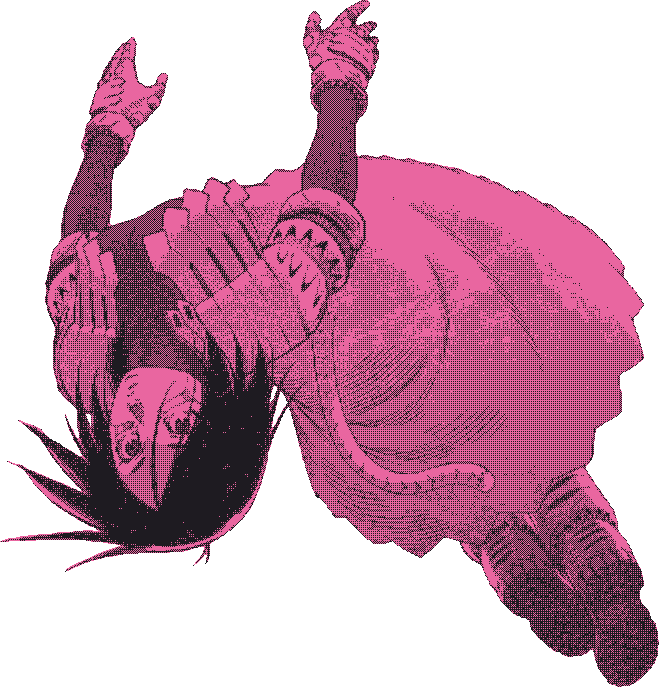
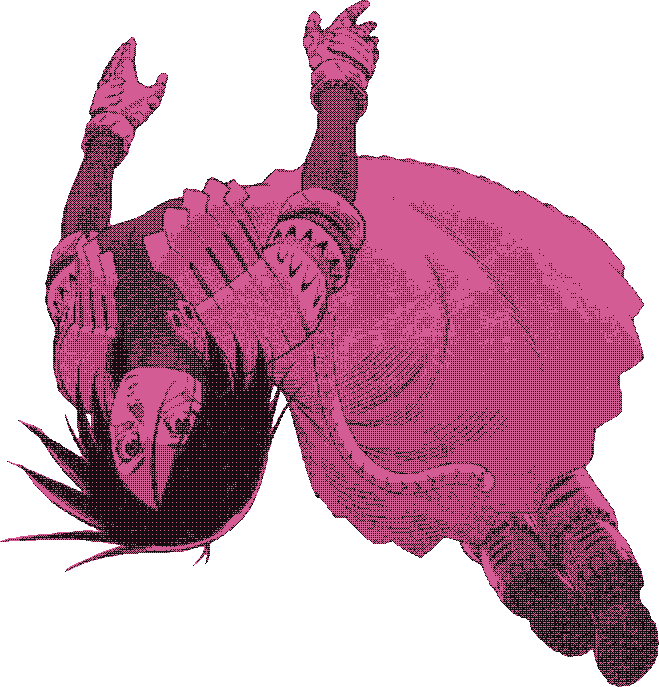
Improved dither consistency between main color images

diff --git a/assets/js/settings-panel.js b/assets/js/settings-panel.js
@@ -89,7 +89,6 @@ export function initSettingsPanel() {
     padding: 4px 8px;
     width: 100%;
     box-sizing: border-box;
-    border-radius: var(--b-radius);
   }
 
   #settings-box label.switch-placeholder .switch-label {
@@ -110,7 +109,7 @@ export function initSettingsPanel() {
     width: 36px;
     height: 22px;
     background: #888;
-    border-radius: calc(var(--b-radius)*50);
+    border-radius: var(--b-radius);
     border: 1px solid var(--clr-borda);
     position: relative;
     margin-left: auto;
@@ -125,7 +124,7 @@ export function initSettingsPanel() {
     height: 14px;
     aspect-ratio: 1/1;
     background: #fcf9ff;
-    border-radius: calc(var(--b-radius)*50);
+    border-radius: calc(var(--b-radius) - 3px);
     transition: transform 0.2s;
     transform: translateY(-50%) translateX(0);
     box-shadow: 1px 1px 0px rgba(0,0,0,0.4);

diff --git a/assets/css/variaveis.css b/assets/css/variaveis.css
@@ -99,7 +99,7 @@
 	--fonte-tituloheader: "Voxel", serif;
 	--fonte-corpo: "ANK", "MS UI Gothic", monospace;
 
-	--b-radius: 24px;
+	--b-radius: 2px;
 	--transition-time: 0.25s;
 	--transition-time-long: 0.4s;
 	--main-width: 74rem;
@@ -108,7 +108,7 @@
 /* Tema claro */
 :root[data-theme="light"] {
 	--clr-black-a0: #f5f6fa;
-	--clr-black-a10: lch(from var(--clr-black-a0) calc(l + 2) c h);
+	--clr-black-a10: lch(from var(--clr-black-a0) calc(l + 32) c h);
 
 	--clr-gray-a0: lch(from var(--clr-black-a0) calc(l - 5) c calc(h + 10));
 	--clr-gray-a10: lch(from var(--clr-black-a0) calc(l - 11) c calc(h + 10));

diff --git a/sobre.html b/sobre.html
@@ -35,7 +35,7 @@
 				<div id="col-centro" class="sobre">
 					<div>
 						<img
-							src="/assets/img/gunnm-angel-fadeout-dither.png"
+							src="/assets/img/gunnm-angel-fadeout-dither-v2.png"
 							class="img-main tilt img-clr-main"
 						/>
 						<div>

diff --git a/pensamentos/index.html b/pensamentos/index.html
@@ -52,7 +52,7 @@
 
 			#col-esquerda::before {
 				background: url(/assets/img/lain_book_205px_dither.png) no-repeat center
-					180px;
+					182px;
 				content: "";
 				width: 100%;
 				height: 100%;
